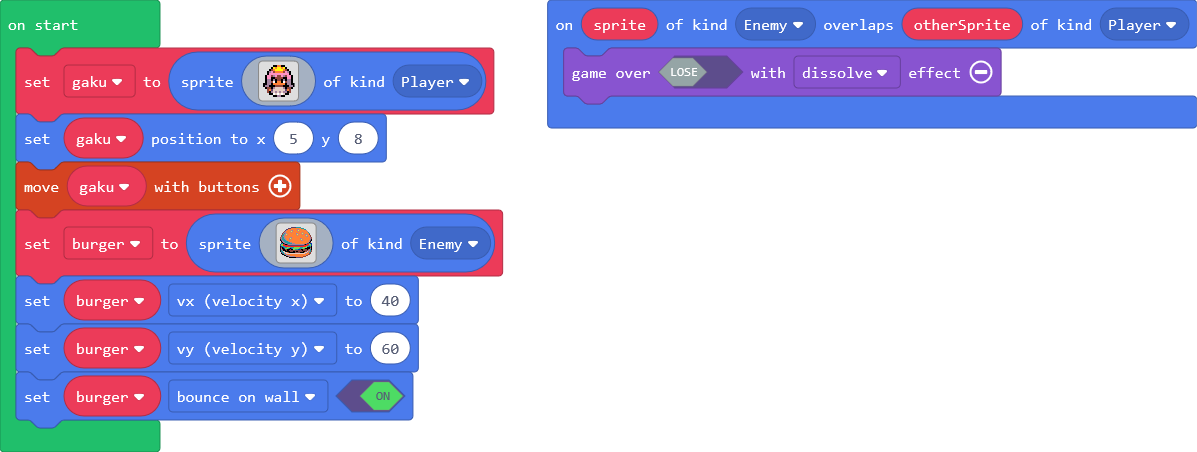
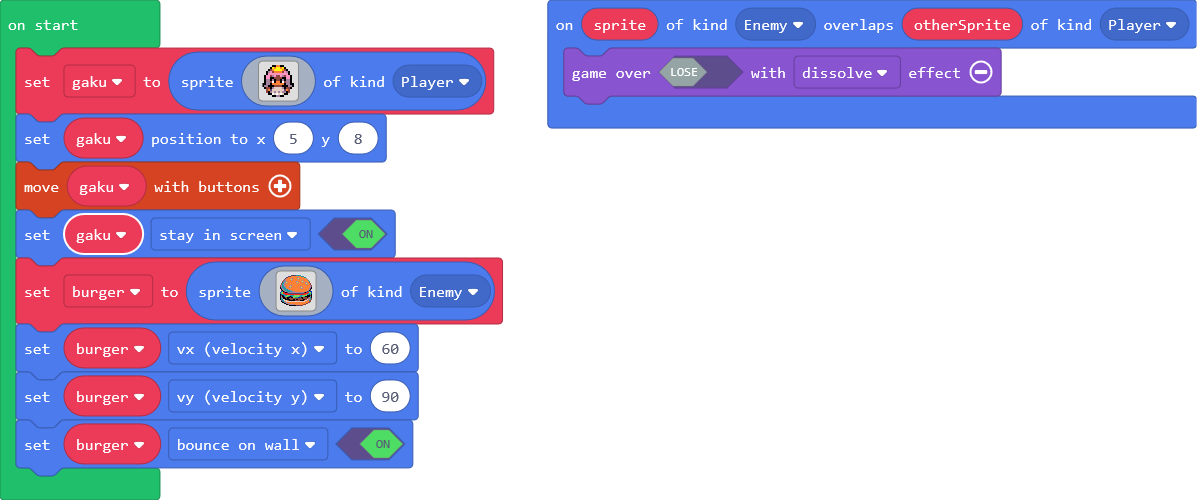
keep gaku on screen

Changed region(s): [[0.0, 0.0929, 0.4327, 0.9602], [0.4327, 0.0, 1.0, 0.3097], [0.0, 0.031, 0.0618, 0.0619]]

diff --git a/main.ts b/main.ts
@@ -21,6 +21,7 @@ f b b f f f e e e e f f f b b f
 `, SpriteKind.Player)
 gaku.setPosition(5, 8)
 controller.moveSprite(gaku)
+gaku.setFlag(SpriteFlag.StayInScreen, true)
 let burger = sprites.create(img`
 . . . . . . . . . . . c c c c c 6 6 6 6 6 . . . . . . . . . . . 
 . . . . . . . . c c c 4 4 4 4 4 4 4 4 4 4 6 6 6 . . . . . . . . 
@@ -55,6 +56,6 @@ f 6 6 d d f f f f f e e e f f e f f e e e e e f f e e d b 4 6 e
 . . . . . . . . . f f f f f f f c c c c c e e . . . . . . . . . 
 . . . . . . . . . . . . . . . . . . . . . . . . . . . . . . . . 
 `, SpriteKind.Enemy)
-burger.vx = 40
-burger.vy = 60
+burger.vx = 60
+burger.vy = 90
 burger.setFlag(SpriteFlag.BounceOnWall, true)
